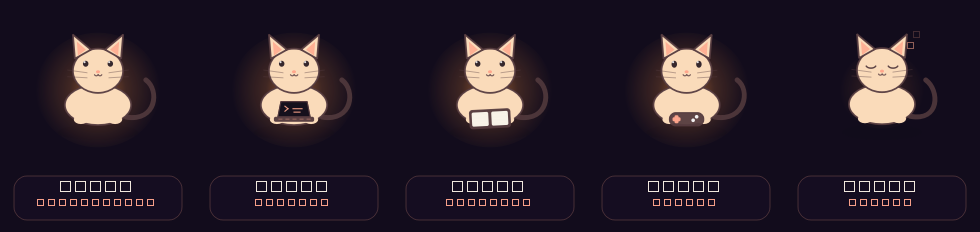
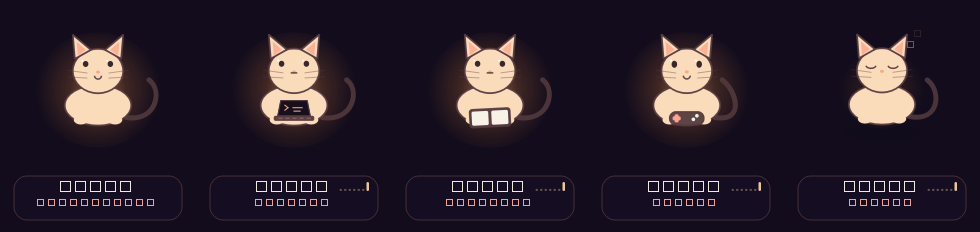
DeskCompy: remove desk, reposition chat, add buddies, lively tracking

diff --git a/painter.py b/painter.py
@@ -99,6 +99,8 @@ def paint_scene(
     activity: str = CHILL,
     mirror_typing: float = 0.0,
     mirror_clicking: float = 0.0,
+    look_x: float = 0.0,
+    look_y: float = 0.0,
     mirror: Mirror | None = None,
     history: list[tuple[str, float, bool]] | None = None,
     display_name: str | None = None,
@@ -126,7 +128,6 @@ def paint_scene(
     painter.translate(-cx, -cy)
 
     _draw_shadow(painter, cx, cy + 46, visual)
-    _draw_workstation(painter, cx, cy, colors, visual)
     _draw_halo(painter, cx, cy + 4, colors, visual, glow, celebrate)
     shift_x, shift_y, opacity = _idle_motion(buddy.body_shape, phase, visual, animate)
     painter.save()
@@ -149,6 +150,8 @@ def paint_scene(
             glow,
             mirror_typing,
             _mood(visual, activity),
+            look_x=look_x,
+            look_y=look_y,
         )
         _draw_prop(painter, activity, buddy, colors, cx, cy + 32, phase)
         _draw_idle_extras(painter, buddy, colors, cx, cy, phase, animate, visual)
@@ -308,20 +311,22 @@ def _draw_character(
     glow: float,
     typing: float,
     mood: str = "happy",
+    look_x: float = 0.0,
+    look_y: float = 0.0,
 ) -> None:
     shape = buddy.body_shape
     if shape == "moth":
-        _draw_moth(painter, colors, cx, cy, visual, phase, glow, mood)
+        _draw_moth(painter, colors, cx, cy, visual, phase, glow, mood, typing, look_x, look_y)
     elif shape == "cat":
-        _draw_cat(painter, buddy, cx, cy, visual, phase, typing, mood)
+        _draw_cat(painter, buddy, cx, cy, visual, phase, typing, mood, look_x, look_y)
     elif shape == "frog":
-        _draw_frog(painter, buddy, cx, cy, visual, phase, typing, mood)
+        _draw_frog(painter, buddy, cx, cy, visual, phase, typing, mood, look_x, look_y)
     elif shape == "ghost":
-        _draw_ghost(painter, buddy, cx, cy, visual, phase, typing, mood)
+        _draw_ghost(painter, buddy, cx, cy, visual, phase, typing, mood, look_x, look_y)
     elif shape == "axolotl":
-        _draw_axolotl(painter, buddy, cx, cy, visual, phase, typing, mood)
+        _draw_axolotl(painter, buddy, cx, cy, visual, phase, typing, mood, look_x, look_y)
     else:
-        _draw_moth(painter, colors, cx, cy, visual, phase, glow, mood)
+        _draw_moth(painter, colors, cx, cy, visual, phase, glow, mood, typing, look_x, look_y)
 
 
 def _blink(phase: float, rate: float = 0.38) -> bool:
@@ -343,44 +348,6 @@ def _draw_sleep_marks(
         alpha = int(150 * max(0.0, 1.0 - drift / 3.0))
         painter.setPen(QColor(accent[0], accent[1], accent[2], alpha))
         painter.drawText(QPointF(x + 6 + index * 4 + drift * 1.2, y - index * 7 - drift * 2.4), "z")
-
-
-def _draw_workstation(
-    painter: QPainter,
-    cx: float,
-    cy: float,
-    colors: dict[str, tuple[int, int, int]],
-    visual: str,
-) -> None:
-    """A tiny desk so the perch feels like a real workstation."""
-    painter.save()
-    desk_y = cy + 58
-    # Desk surface.
-    painter.setPen(QPen(_qc(colors["plate"], 80), 1.0))
-    painter.setBrush(_qc((92, 62, 40), 210))
-    painter.drawRoundedRect(QRectF(cx - 78, desk_y, 156, 12), 4, 4)
-    # Legs.
-    painter.setBrush(_qc((70, 48, 32), 230))
-    for x in (-62, 62):
-        painter.drawRoundedRect(QRectF(cx + x - 3, desk_y + 10, 6, 18), 2, 2)
-    # Monitor.
-    painter.setBrush(_qc((34, 34, 46), 235))
-    painter.setPen(QPen(_qc(colors["edge"], 120), 1.0))
-    painter.drawRoundedRect(QRectF(cx - 26, desk_y - 34, 52, 30), 4, 4)
-    painter.setBrush(_qc(colors["core"], 95 if visual != SLEEPING else 45))
-    painter.setPen(Qt.PenStyle.NoPen)
-    painter.drawRoundedRect(QRectF(cx - 22, desk_y - 30, 44, 22), 3, 3)
-    # Stand and keyboard.
-    painter.setBrush(_qc((52, 42, 34), 230))
-    painter.drawRoundedRect(QRectF(cx - 3, desk_y - 4, 6, 8), 1, 1)
-    painter.drawRoundedRect(QRectF(cx - 34, desk_y - 2, 68, 7), 2, 2)
-    # A tiny lamp, because it is a desk companion.
-    painter.setPen(QPen(_qc(colors["edge"], 180), 1.4, Qt.PenStyle.SolidLine, Qt.PenCapStyle.RoundCap))
-    painter.drawLine(QPointF(cx + 46, desk_y), QPointF(cx + 52, desk_y - 16))
-    painter.setBrush(_qc(colors["core"], 170))
-    painter.setPen(Qt.PenStyle.NoPen)
-    painter.drawEllipse(QPointF(cx + 52, desk_y - 18), 3.2, 3.2)
-    painter.restore()
 
 
 def _draw_shadow(painter: QPainter, cx: float, y: float, visual: str) -> None:
@@ -439,6 +406,9 @@ def _draw_moth(
     phase: float,
     glow: float,
     mood: str = "happy",
+    typing: float = 0.0,
+    look_x: float = 0.0,
+    look_y: float = 0.0,
 ) -> None:
     wing_rgb = colors["wing"] if visual in (WORKING, FOCUS, SCATTER) else colors["wing_calm"]
     if visual == SLEEPING:
@@ -509,8 +479,8 @@ def _draw_moth(
         painter.drawEllipse(QRectF(cx - 8, cy - 18, 4.2, 5.0))
         painter.drawEllipse(QRectF(cx + 3.6, cy - 18, 4.2, 5.0))
         painter.setBrush(_qc(core, 220))
-        painter.drawEllipse(QPointF(cx - 6.2, cy - 16.6), 0.9, 0.9)
-        painter.drawEllipse(QPointF(cx + 5.4, cy - 16.6), 0.9, 0.9)
+        painter.drawEllipse(QPointF(cx - 6.2 + look_x * 1.6, cy - 16.6 + look_y * 1.2), 0.9, 0.9)
+        painter.drawEllipse(QPointF(cx + 5.4 + look_x * 1.6, cy - 16.6 + look_y * 1.2), 0.9, 0.9)
     if mood != "sleep":
         _mood_mouth(painter, cx, cy - 12, mood, colors["text"], colors["core"], 10.0)
     painter.restore()
@@ -592,6 +562,8 @@ def _draw_cat(
     phase: float,
     typing: float,
     mood: str = "happy",
+    look_x: float = 0.0,
+    look_y: float = 0.0,
 ) -> None:
     bob = math.sin(phase * 1.5) * 1.2 + typing * math.sin(phase * 9) * 1.4
     if visual == SLEEPING:
@@ -656,8 +628,8 @@ def _draw_cat(
         painter.drawEllipse(QRectF(cx - 15, cy - 28 + bob, 5.5, eye_h))
         painter.drawEllipse(QRectF(cx + 9.5, cy - 28 + bob, 5.5, eye_h))
         painter.setBrush(QColor(255, 255, 255, 220))
-        painter.drawEllipse(QPointF(cx - 13.4, cy - 26.6 + bob), 1.1, 1.1)
-        painter.drawEllipse(QPointF(cx + 11.1, cy - 26.6 + bob), 1.1, 1.1)
+        painter.drawEllipse(QPointF(cx - 13.4 + look_x * 2.2, cy - 26.6 + bob + look_y * 1.6), 1.1, 1.1)
+        painter.drawEllipse(QPointF(cx + 11.1 + look_x * 2.2, cy - 26.6 + bob + look_y * 1.6), 1.1, 1.1)
 
     # Nose and a tiny omega mouth.
     painter.setPen(Qt.PenStyle.NoPen)
@@ -687,6 +659,8 @@ def _draw_frog(
     phase: float,
     typing: float,
     mood: str = "happy",
+    look_x: float = 0.0,
+    look_y: float = 0.0,
 ) -> None:
     bob = math.sin(phase * 1.7) * 1.1 + typing * math.sin(phase * 8) * 1.2
     if visual == SLEEPING:
@@ -739,9 +713,10 @@ def _draw_frog(
         shift = 0.0
         if visual == SCATTER:
             shift = math.sin(phase * 6.0) * 2.4
-        painter.drawEllipse(QRectF(ex - 3.6 + shift, cy - 29 + bob, 7.2, 7.2))
+        shift += look_x * 2.0
+        painter.drawEllipse(QRectF(ex - 3.6 + shift, cy - 29 + bob + look_y * 1.2, 7.2, 7.2))
         painter.setBrush(QColor(255, 255, 255, 235))
-        painter.drawEllipse(QPointF(ex - 1.6 + shift, cy - 27 + bob), 1.5, 1.5)
+        painter.drawEllipse(QPointF(ex - 1.6 + shift, cy - 27 + bob + look_y * 1.2), 1.5, 1.5)
 
     # Mouth.
     width = 18 if visual != SCATTER else 22
@@ -766,6 +741,8 @@ def _draw_ghost(
     phase: float,
     typing: float,
     mood: str = "happy",
+    look_x: float = 0.0,
+    look_y: float = 0.0,
 ) -> None:
     bob = math.sin(phase * 1.3) * 2.2 + typing * math.sin(phase * 7) * 1.0
     body = buddy.body
@@ -808,8 +785,8 @@ def _draw_ghost(
         painter.drawEllipse(QRectF(cx - 13, cy - 26 + bob, eye_w, 8.0))
         painter.drawEllipse(QRectF(cx + 7, cy - 26 + bob, eye_w, 8.0))
         painter.setBrush(QColor(255, 255, 255, 235))
-        painter.drawEllipse(QPointF(cx - 11 + 1, cy - 24 + bob), 1.2, 1.2)
-        painter.drawEllipse(QPointF(cx + 9 + 1, cy - 24 + bob), 1.2, 1.2)
+        painter.drawEllipse(QPointF(cx - 11 + 1 + look_x * 2.0, cy - 24 + bob + look_y * 1.4), 1.2, 1.2)
+        painter.drawEllipse(QPointF(cx + 9 + 1 + look_x * 2.0, cy - 24 + bob + look_y * 1.4), 1.2, 1.2)
         painter.setBrush(Qt.BrushStyle.NoBrush)
         mouth_w = 10 if visual != SCATTER else 13
         _mood_mouth(painter, cx, cy - 12 + bob, mood, trim, accent, float(mouth_w))
@@ -832,6 +809,8 @@ def _draw_axolotl(
     phase: float,
     typing: float,
     mood: str = "happy",
+    look_x: float = 0.0,
+    look_y: float = 0.0,
 ) -> None:
     bob = math.sin(phase * 1.5) * 1.2 + typing * math.sin(phase * 9) * 1.3
     if visual == SLEEPING:
@@ -890,7 +869,7 @@ def _draw_axolotl(
             painter.setBrush(QColor(52, 34, 48, 245))
             painter.drawEllipse(QRectF(ex - 3.4, cy - 27 + bob, 6.8, 7.6))
             painter.setBrush(QColor(255, 255, 255, 230))
-            painter.drawEllipse(QPointF(ex - 1.4, cy - 25 + bob), 1.2, 1.2)
+            painter.drawEllipse(QPointF(ex - 1.4 + look_x * 1.8, cy - 25 + bob + look_y * 1.2), 1.2, 1.2)
     # Smile.
     _mood_mouth(painter, cx, cy - 12 + bob, mood, trim, accent, 14.0)
 

diff --git a/ui_engine.py b/ui_engine.py
@@ -412,7 +412,7 @@ class TalkBox(QWidget):
         screen = QApplication.screenAt(anchor) or QApplication.primaryScreen()
         geo = screen.availableGeometry() if screen is not None else QRect(0, 0, 1280, 720)
         x = min(max(geo.left() + 8, anchor.x() - self.width() // 2), geo.right() - self.width() - 8)
-        y = min(max(geo.top() + 8, anchor.y() - self.height() - 8), geo.bottom() - self.height() - 8)
+        y = min(max(geo.top() + 8, anchor.y() + 8), geo.bottom() - self.height() - 8)
         self.move(x, y)
         self.show()
         self.raise_()
@@ -580,6 +580,8 @@ class CompanionWindow(QWidget):
         self._late_noted = False
         self._press_at: QPoint | None = None
         self._greeted = False
+        self._look_x = 0.0
+        self._look_y = 0.0
 
         tray_ok = QSystemTrayIcon.isSystemTrayAvailable()
         # A ghost perch with no tray has no way back. Refuse that lock-out.
@@ -641,7 +643,7 @@ class CompanionWindow(QWidget):
         self.act_show.triggered.connect(lambda *_: self._bring_back())
         self.act_focus = QAction("Start Focus Timer (25 min)", self)
         self.act_focus.triggered.connect(lambda *_: self._toggle_focus())
-        self.act_veil = QAction("Dim the room", self)
+        self.act_veil = QAction("Dim the lights", self)
         self.act_veil.setCheckable(True)
         self.act_veil.setChecked(self.settings.veil)
         self.act_veil.setToolTip(
@@ -677,9 +679,6 @@ class CompanionWindow(QWidget):
         self.act_dance.triggered.connect(lambda *_: self._dance())
         self.act_customize = QAction("Customize…", self)
         self.act_customize.triggered.connect(lambda *_: self._customize())
-        self.act_add_buddy = QAction("Add your own buddy…", self)
-        self.act_add_buddy.setToolTip("Open the buddy folder and show the manifest format.")
-        self.act_add_buddy.triggered.connect(lambda *_: self._open_buddy_folder())
         self.act_reload = QAction("Reload custom buddies", self)
         self.act_reload.triggered.connect(lambda *_: self._reload_custom())
 
@@ -748,7 +747,6 @@ class CompanionWindow(QWidget):
             buddies.addAction(action)
         buddies.addSeparator()
         buddies.addAction(self.act_next_buddy)
-        buddies.addAction(self.act_add_buddy)
         buddies.addAction(self.act_reload)
         activity = menu.addMenu("Activity")
         activity.setStyleSheet(MENU_QSS)
@@ -839,7 +837,7 @@ class CompanionWindow(QWidget):
         self.act_mute.setChecked(self.settings.muted)
         self.act_ghost.setChecked(self.settings.click_through)
         self.act_clear.setEnabled(bool(self.settings.intention))
-        self.act_veil.setEnabled(self.rituals.focus_active())
+        self.act_veil.setEnabled(True)
         self.act_veil.setChecked(self._veil.isVisible())
         if self._tray is not None:
             week = glimmer.week_minutes(self.settings)
@@ -882,9 +880,12 @@ class CompanionWindow(QWidget):
             checked = self.act_veil.isChecked()
         self.settings.veil = bool(checked)
         self._save()
-        if checked and self.rituals.focus_active():
+        if checked:
+            if not self.rituals.focus_active():
+                self.rituals.start_focus()
+                self._speak("focus_start", force=True)
             self._show_veil()
-        elif not checked:
+        else:
             self._veil.lift()
         self._refresh_labels()
         self.update()
@@ -967,7 +968,7 @@ class CompanionWindow(QWidget):
 
     def _open_talk(self) -> None:
         self._talk.open_at(
-            self.mapToGlobal(QPoint(self.width() // 2, 12)),
+            self.mapToGlobal(QPoint(self.width() // 2, self.height())),
             self._display_name(),
             continuous=True,
         )
@@ -1219,6 +1220,13 @@ class CompanionWindow(QWidget):
         now = time.monotonic()
         dt = min(0.12, max(0.0, now - self._last_tick))
         self._last_tick = now
+        try:
+            center = self.mapToGlobal(QPoint(self.width() // 2, BODY_Y))
+            pos = QCursor.pos()
+            self._look_x = max(-1.0, min(1.0, (pos.x() - center.x()) / 140.0))
+            self._look_y = max(-1.0, min(1.0, (pos.y() - center.y()) / 140.0))
+        except Exception:
+            pass
         visual = self._visual()
         step = {
             SLEEPING: 0.7,
@@ -1360,6 +1368,8 @@ class CompanionWindow(QWidget):
             activity=self._activity,
             mirror_typing=self._mirror.typing,
             mirror_clicking=self._mirror.clicking,
+            look_x=self._look_x,
+            look_y=self._look_y,
             mirror=self._mirror if self.settings.mirror_particles else None,
             history=glimmer.week(self.settings),
             display_name=self._display_name(),
@@ -1376,8 +1386,7 @@ class CompanionWindow(QWidget):
             return True
         if QRect(14, self.height() - 72, self.width() - 28, 60).contains(local):
             return True
-        # The tiny desk is part of the perch, not empty desktop.
-        return QRect(8, self.height() - 92, self.width() - 16, 28).contains(local)
+        return False
 
     def mousePressEvent(self, event) -> None:  # noqa: N802
         if event.button() == Qt.MouseButton.LeftButton and self._contains(event.position().toPoint()):

diff --git a/characters.py b/characters.py
@@ -78,9 +78,39 @@ CHARACTERS: dict[str, Character] = {
         trim=(150, 78, 110),
         accent=(255, 232, 240),
     ),
+    "dog": Character(
+        key="dog",
+        name="Rex",
+        species="desk dog",
+        tagline="loyal, loud, easily distracted by squirrels",
+        body=(214, 178, 138),
+        trim=(92, 64, 44),
+        accent=(255, 196, 120),
+        shape="cat",
+    ),
+    "bunny": Character(
+        key="bunny",
+        name="Pipkin",
+        species="pocket bunny",
+        tagline="ears up, snacks first",
+        body=(246, 232, 244),
+        trim=(120, 92, 132),
+        accent=(255, 180, 210),
+        shape="frog",
+    ),
+    "owl": Character(
+        key="owl",
+        name="Hoot",
+        species="study owl",
+        tagline="wise enough to nap during your study breaks",
+        body=(176, 148, 112),
+        trim=(72, 52, 36),
+        accent=(255, 210, 140),
+        shape="moth",
+    ),
 }
 
-BUILTIN_KEYS = ("moth", "cat", "frog", "ghost", "axolotl")
+BUILTIN_KEYS = ("moth", "cat", "frog", "ghost", "axolotl", "dog", "bunny", "owl")
 CHARACTER_ORDER: list[str] = list(BUILTIN_KEYS)
 DEFAULT_CHARACTER = BUILTIN_KEYS[0]
 _CUSTOM_KEYS: set[str] = set()

diff --git a/converse.py b/converse.py
@@ -144,6 +144,15 @@ VOICES: dict[str, dict[str, tuple[str, ...]]] = {
     },
 }
 
+# Extra buddies borrow a body's voice, with a name of their own.
+for _key, _shape, _identity in (
+    ("dog", "cat", ("Rex. Desk dog. I sit, I stay, I steal socks.", "I'm the dog. I'm a very good boy, probably.")),
+    ("bunny", "frog", ("Pipkin! Pocket bunny. Ears up, snacks first.", "I'm the bunny. I hop and I snack.")),
+    ("owl", "moth", ("Hoot. Study owl. I see everything. I nap through most of it.", "I'm the owl. Wise, sleepy, snack-curious.")),
+):
+    VOICES[_key] = {intent: VOICES[_shape][intent] for intent in VOICES[_shape]}
+    VOICES[_key]["identity"] = _identity
+
 FALLBACK = (
     "I'm more of a vibes buddy than a search engine. Ask about studying, games, snacks, or jokes.",
     "I didn't catch that one. My brain is mostly lamp light and enthusiasm.",

diff --git a/chatter.py b/chatter.py
@@ -486,6 +486,16 @@ LINES: dict[str, dict[str, tuple[str, ...]]] = {
     },
 }
 
+# Extra buddies borrow a body's voice, with a name of their own.
+for _key, _shape, _meet in (
+    ("dog", "cat", "Rex. Desk dog. I brought the tail wags."),
+    ("bunny", "frog", "Pipkin! Bunny. Ears up, ready to hop."),
+    ("owl", "moth", "Hoot. Study owl. I'm watching, and napping, and watching."),
+):
+    _lines = {situation: LINES[_shape][situation] for situation in SITUATIONS}
+    _lines["meet"] = (_meet,)
+    LINES[_key] = _lines
+
 # Used only if a future character forgets a situation. Keeps the buddy talking.
 COMMON: dict[str, tuple[str, ...]] = {
     "meet": ("Hi. I'm here now. We're doing this together.",),

diff --git a/tests/test_buddy.py b/tests/test_buddy.py
@@ -61,8 +61,8 @@ class ActivityTests(unittest.TestCase):
 
 class RosterTests(unittest.TestCase):
     def test_five_distinct_buddies_and_a_wrapping_next(self) -> None:
-        self.assertEqual(len(CHARACTER_ORDER), 5)
-        self.assertEqual(len(set(CHARACTER_ORDER)), 5)
+        self.assertEqual(len(CHARACTER_ORDER), 8)
+        self.assertEqual(len(set(CHARACTER_ORDER)), 8)
         for key in CHARACTER_ORDER:
             self.assertIn(key, CHARACTERS)
             self.assertTrue(CHARACTERS[key].name)
